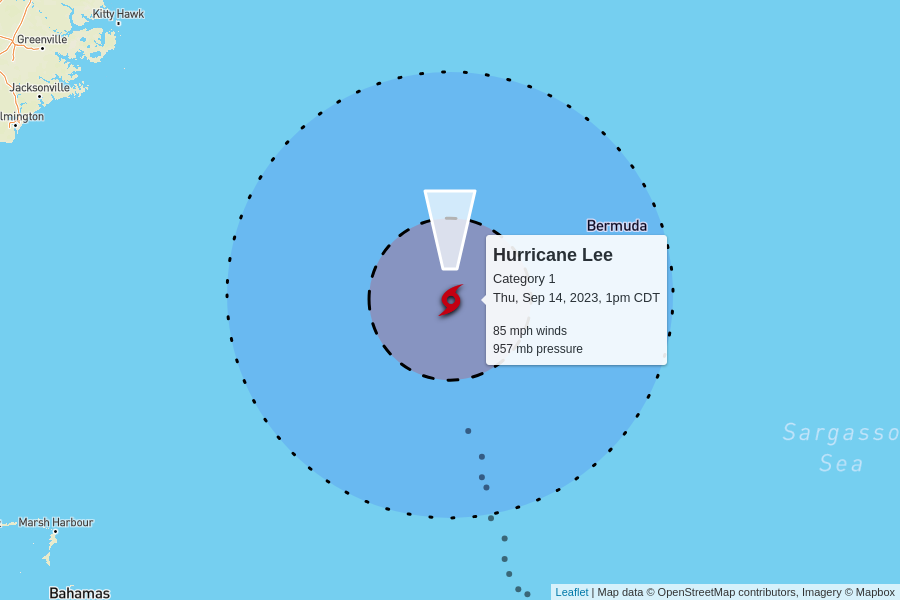
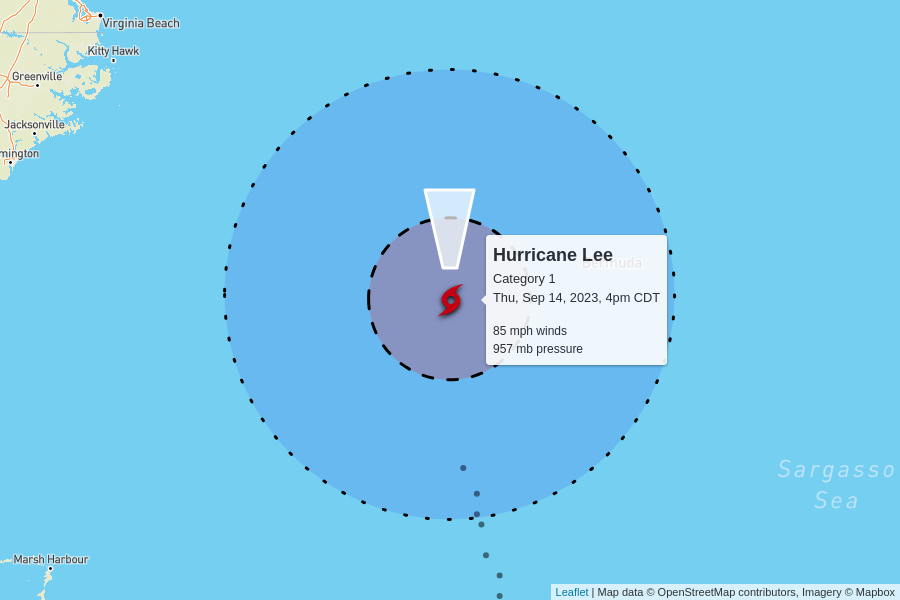
automatic update

diff --git a/docs/index.html b/docs/index.html
@@ -104,7 +104,7 @@
         <td colspan="6" class="storm category-1" >
           <h2>
             Hurricane Lee - Category 1
-            <p class="updated">last updated <span data-time>2023-09-14T18:00:00.000Z</span></p>
+            <p class="updated">last updated <span data-time>2023-09-14T21:00:00.000Z</span></p>
           </h2>
         </td>
       </tr>
@@ -119,10 +119,10 @@
       </tr>
       <tr>
         <td class="spacer"></td>
-        <td>85 mph<br>-5 mph since last update</td>
-        <td>957 mb<br>+1 mb since last update</td>
+        <td>85 mph<br>0 mph since last update</td>
+        <td>957 mb<br>0 mb since last update</td>
         <td>
-          14 mph to the north
+          15 mph to the north
           <br/>
           <span style="display: inline-block; font-size: 1.5em; transform: rotate(360deg);">↑</span>
         </td>
@@ -148,7 +148,7 @@
         <td colspan="6" class="storm category-1" >
           <h2>
             Hurricane Margot - Category 1
-            <p class="updated">last updated <span data-time>2023-09-14T15:00:00.000Z</span></p>
+            <p class="updated">last updated <span data-time>2023-09-14T21:00:00.000Z</span></p>
           </h2>
         </td>
       </tr>
@@ -163,12 +163,12 @@
       </tr>
       <tr>
         <td class="spacer"></td>
-        <td>80 mph<br>+5 mph since last update</td>
-        <td>978 mb<br>-1 mb since last update</td>
+        <td>80 mph<br>0 mph since last update</td>
+        <td>978 mb<br>0 mb since last update</td>
         <td>
-          6 mph to the north-northeast
+          5 mph to the northeast
           <br/>
-          <span style="display: inline-block; font-size: 1.5em; transform: rotate(30deg);">↑</span>
+          <span style="display: inline-block; font-size: 1.5em; transform: rotate(50deg);">↑</span>
         </td>
         <td><a href="https://raw.githubusercontent.com/mgwalker/atlantic-hurricanes/main/data/csv/AL142023.csv">AL142023.csv</a></td>
         <td><a href="https://www.nhc.noaa.gov/archive/2023/MARGOT.shtml?">NHC advisories</a></td>
